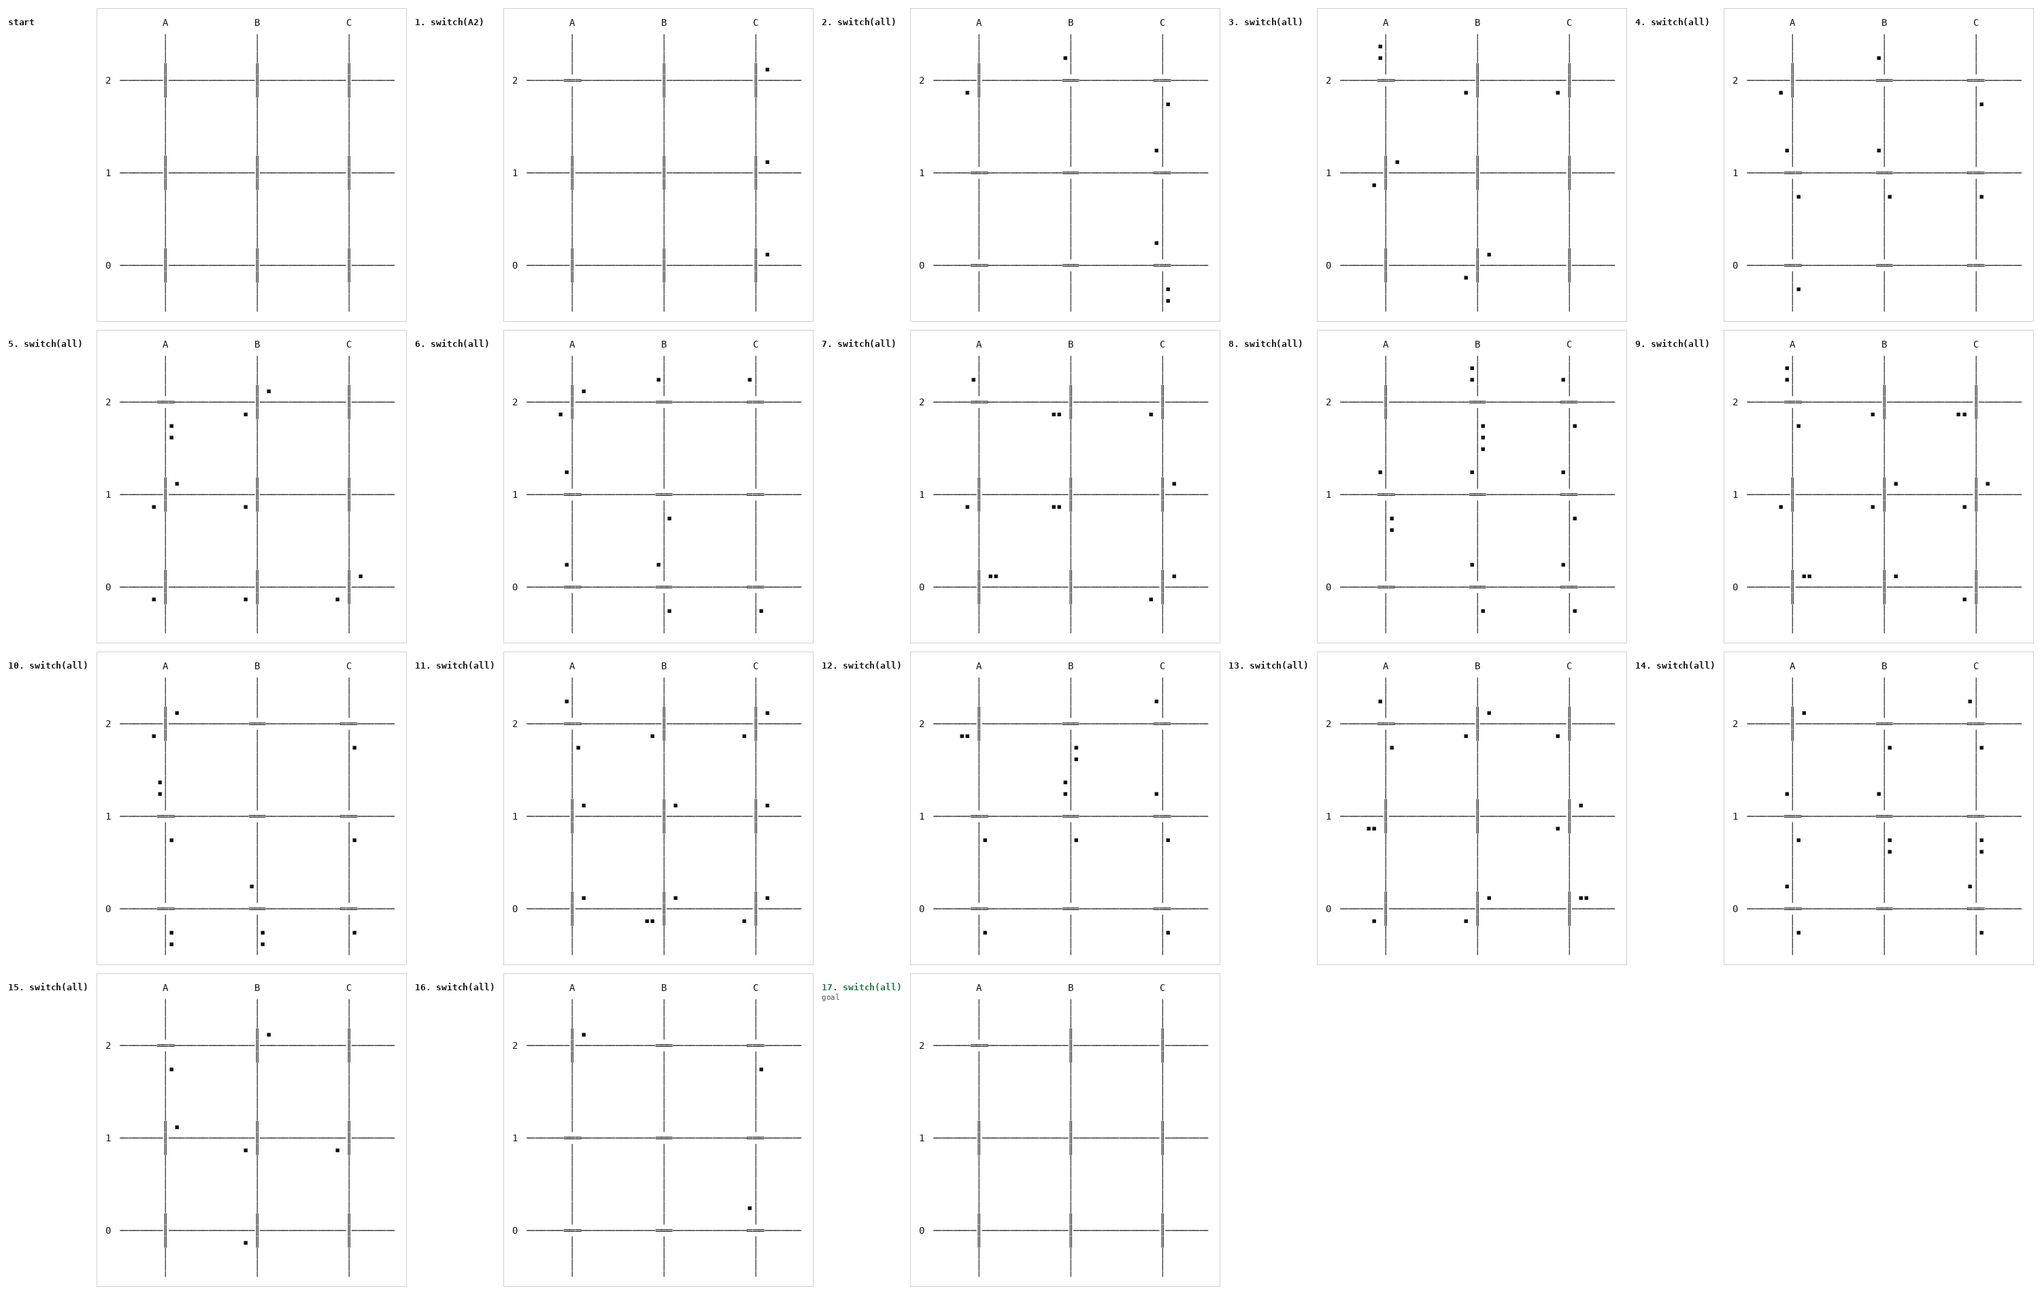
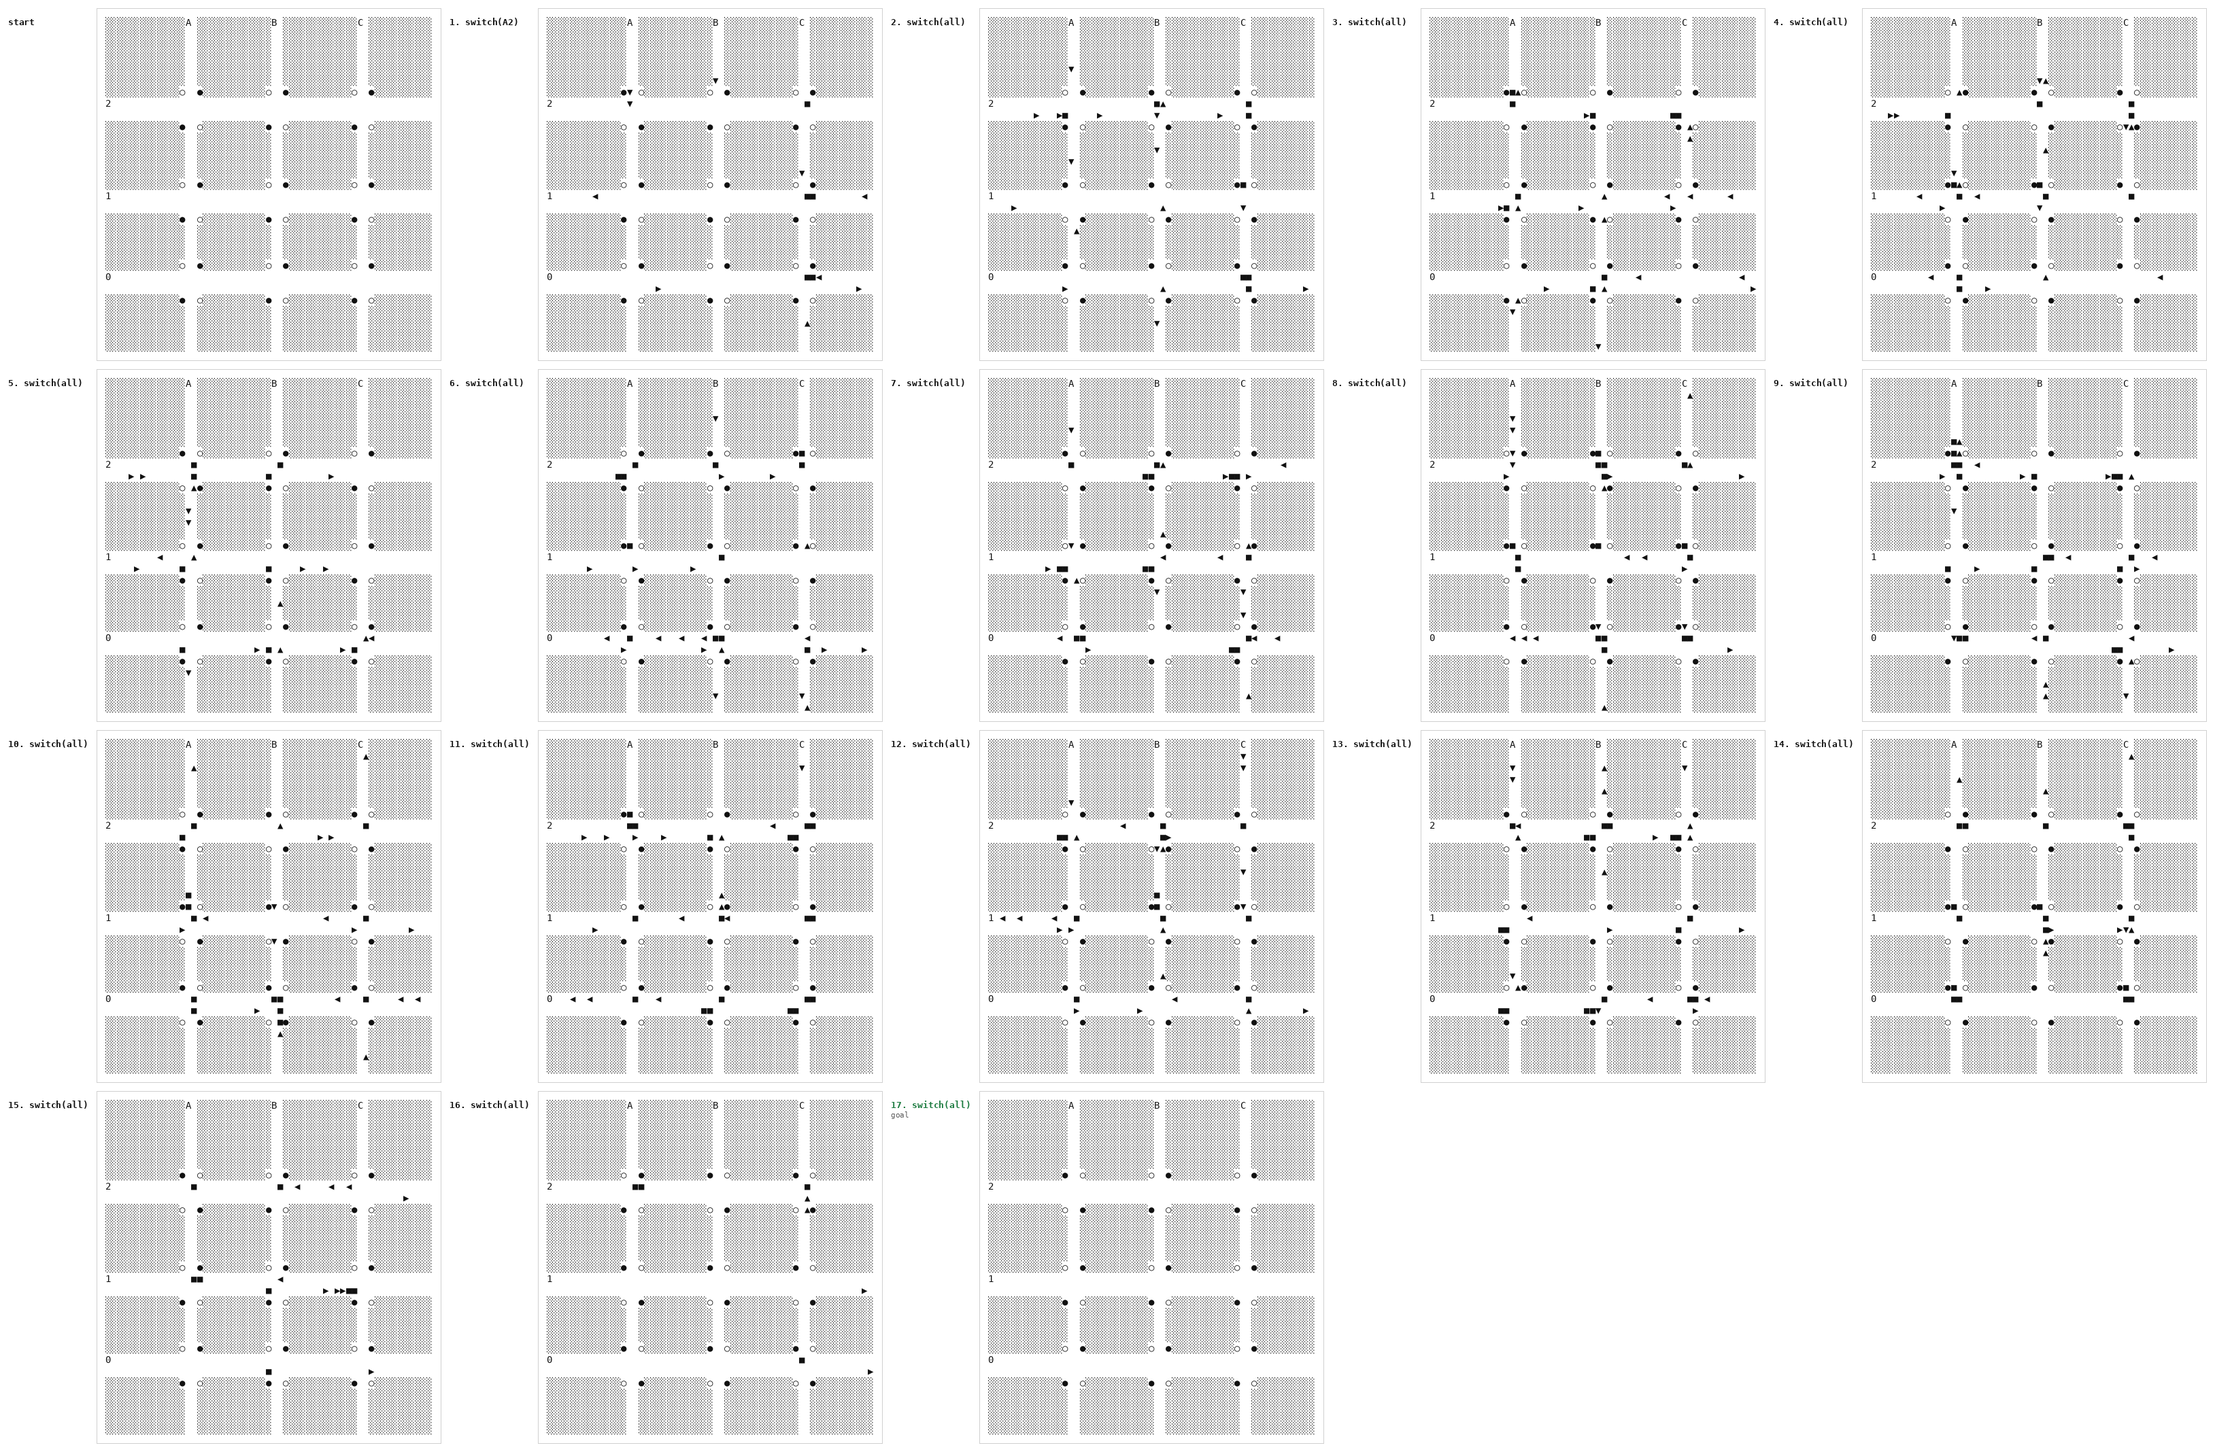
Draw the traffic grid as a city with its lights and every vehicle
Blocks of buildings stand between the streets, a lane each way; each
approach has a light on its corner, green or red; and every vehicle is
drawn where it is, an arrow along its heading while it moves and a square
once halted, so the frames show platoons and queues. The state records
each vehicle's position for the picture, outside its identity.

The example comments that still quoted a status line now name only what
the picture shows.

Claude-Session: https://claude.ai/code/session_01CbUM6vVu3Q3wBSzyXUJpxb

Changed region(s): [[0.031, 0.0, 1.0, 1.0]]

diff --git a/planiverse/environments/operational/traffic/environment.py b/planiverse/environments/operational/traffic/environment.py
@@ -113,10 +113,14 @@ def approaches(junction):
     return tuple(f"{start}{junction}" for start in (north, east, south, west))
 
 
-#: A picture's grid: columns between junctions, rows between them, the stubs' length in
-#: each, and how many halted vehicles one mark of a queue stands for.
-PICTURE_BLOCK, PICTURE_STUB = (16, 8), (8, 4)
-PER_MARK = 2
+#: A picture's scale: columns and rows to a metre of the network, which is `NET` metres square
+#: with its junctions `BLOCK` apart from `STUB` in. A street is two characters wide, a lane
+#: each way, vehicles keeping to the right.
+PICTURE_SCALE, NET = (0.1, 0.05), 2 * STUB + (GRID - 1) * BLOCK
+#: How a picture draws the city: a block of buildings, a light green and red, a vehicle moving
+#: by its heading (north, east, south, west) and one halted.
+BUILDINGS, GREEN, RED = "░", "○", "●"
+MOVING, HALTED = "▲▶▼◀", "■"
 
 
 def _stub_junction(side, k):
@@ -191,11 +195,13 @@ class TrafficState:
                 "to come": self.pending, "vehicle-seconds": self.travel, "target": self.target}
 
     def __init__(self, decisions, time, arrived, running, pending, travel, greens, target=0,
-                 horizon=0, total=0, halted=0, depth=0, queues=()):
+                 horizon=0, total=0, halted=0, depth=0, queues=(), vehicles=()):
         self.decisions = tuple(decisions)
         #: For the picture only: the vehicles halted on each junction's approaches from the
-        #: north, east, south and west, in the order of `JUNCTIONS`.
+        #: north, east, south and west, in the order of `JUNCTIONS`; and every vehicle on the
+        #: road as (x, y, heading in degrees, halted).
         self.queues = tuple(tuple(q) for q in queues)
+        self.vehicles = tuple(vehicles)
         self.time, self.arrived, self.running, self.pending = time, arrived, running, pending
         self.travel, self.greens, self.halted = travel, tuple(greens), halted
         self.target, self.horizon, self.total, self.depth = target, horizon, total, depth
@@ -218,41 +224,49 @@ class TrafficState:
         return self.depth < other.depth
 
     def __str__(self):
-        """The grid as streets, each junction showing the axis its green is on (═ east-west,
-        ║ north-south), each approach's queue as a row of ▪ back from the stop line (one for
-        every `PER_MARK` halted vehicles, as many as the block has room for)."""
-        (bx, by), (sx, sy) = PICTURE_BLOCK, PICTURE_STUB
-        left, top = 2 + sx, 1 + sy
-        width, height = left + bx * (GRID - 1) + sx + 1, top + by * (GRID - 1) + sy + 1
-        canvas = Canvas(width, height)
+        """The city from above: blocks of buildings ░ with streets between them, a lane each
+        way; at each junction a light for each approach on its corner, ○ green and ● red;
+        and every vehicle where it is, an arrow along its heading (▲ ▶ ▼ ◀) while it moves
+        and ■ once halted. The columns are lettered and the rows numbered as the junctions
+        are named."""
+        cx, cy = PICTURE_SCALE
+        width, height = round(NET * cx) + 3, round(NET * cy) + 2
+        canvas = Canvas(width, height, BUILDINGS)
 
-        def at(junction):
-            k, row = "ABC".index(junction[0]), int(junction[1])
-            return left + bx * k, top + by * (GRID - 1 - row)
+        def col(x):
+            return 2 + round(x * cx)
 
-        for k in range(GRID):
-            x, y = at(f"{'ABC'[k]}0")[0], at(f"A{k}")[1]
-            canvas.hline(2, width - 1, y)
-            canvas.vline(x, 1, height - 1)
-            canvas.put(x, 0, "ABC"[k])
-            canvas.put(0, y, str(k))
-        queues = dict(zip(JUNCTIONS, self.queues))
+        def row(y):
+            return 1 + round((NET - y) * cy)
+
+        lines = [STUB + k * BLOCK for k in range(GRID)]
+        for k, at in enumerate(lines):
+            canvas.fill(col(at), 1, col(at) + 1, height - 1, " ")
+            canvas.fill(2, row(at), width - 1, row(at) + 1, " ")
+        for k, at in enumerate(lines):
+            canvas.put(col(at), 0, "ABC"[k])
+            canvas.put(col(at) + 1, 0, " ")
+            canvas.put(0, row(at), str(k))
+            canvas.put(1, row(at), " ")
+            canvas.put(0, row(at) + 1, " ")
+            canvas.put(1, row(at) + 1, " ")
         for junction, green in zip(JUNCTIONS, self.greens):
-            x, y = at(junction)
-            for d in (-1, 0, 1):          # the green axis drawn double through the junction
-                if green == "A":
-                    canvas.put(x, y + d, "║")
-                else:
-                    canvas.put(x + d, y, "═")
-            north, east, south, west = queues.get(junction, (0, 0, 0, 0))
-            room = (by - 2, bx - 3)
-            # vehicles keep to the right: southbound queue on the street's west side, coming
-            # down from the north; westbound on the north side, back to the east; and so on
-            for n, (dx, dy, side) in ((north, (0, -1, (-1, 0))), (south, (0, 1, (1, 0))),
-                                      (east, (1, 0, (0, -1))), (west, (-1, 0, (0, 1)))):
-                marks = min(room[dx != 0], -(-n // PER_MARK))
-                for m in range(2, marks + 2):
-                    canvas.put(x + dx * m + side[0], y + dy * m + side[1], "▪")
+            x, y = col(lines["ABC".index(junction[0])]), row(lines[int(junction[1])])
+            across = RED if green == "A" else GREEN          # phase A is north-south
+            down = GREEN if green == "A" else RED
+            canvas.put(x - 1, y - 1, down)                   # from the north, southbound
+            canvas.put(x + 2, y + 2, down)                   # from the south, northbound
+            canvas.put(x + 2, y - 1, across)                 # from the east, westbound
+            canvas.put(x - 1, y + 2, across)                 # from the west, eastbound
+        for x, y, heading, halted in self.vehicles:
+            way = int(round(heading / 90)) % 4               # SUMO: 0 north, 90 east
+            if way in (1, 3):                                # along a street east or west
+                street = min(lines, key=lambda at: abs(at - y))
+                at = (col(x), row(street) + (1 if way == 1 else 0))
+            else:
+                street = min(lines, key=lambda at: abs(at - x))
+                at = (col(street) + (1 if way == 0 else 0), row(y))
+            canvas.put(*at, HALTED if halted else MOVING[way])
         return str(canvas)
 
     def __repr__(self):
@@ -395,7 +409,10 @@ class TrafficEnv(Environment):
                             target=self.instance["target"], horizon=self.instance["horizon"],
                             total=self.instance["vehicles"], halted=halted, depth=depth,
                             queues=[[ls.edge.getLastStepHaltingNumber(edge) for edge in approaches(j)]
-                                    for j in JUNCTIONS])
+                                    for j in JUNCTIONS],
+                            vehicles=[(*(round(c, 1) for c in ls.vehicle.getPosition(v)),
+                                       round(ls.vehicle.getAngle(v)), ls.vehicle.getSpeed(v) < 0.1)
+                                      for v in ls.vehicle.getIDList()])
 
     def close(self):
         if self.__loaded__ is not None:

diff --git a/tests/test_operational_four.py b/tests/test_operational_four.py
@@ -170,11 +170,14 @@ def test_a_traffic_state_draws_the_grid_its_greens_and_its_queues(traffic):
     assert approaches("A0") == ("A1A0", "B0A0", "bottom0A0", "left0A0")
     state, _ = traffic.reset()
     after = traffic.__advance__(state, TrafficAction("all"))
-    assert_a_picture(traffic, state, after, ["║"])
-    assert "═" not in str(state).split("\n\n")[0] and "║" not in str(after).split("\n\n")[0]
+    assert_a_picture(traffic, state, after, ["░", "○", "●"])
+    lights = lambda drawn: (drawn.count("○"), drawn.count("●"))  # noqa: E731
+    assert sum(lights(str(state))) == 4 * 9, "a light for every approach"
+    assert lights(str(after)) == lights(str(state))[::-1], "switching every junction swaps them"
     queued = traffic.simulate([HOLD] * 6)[-1]
     assert len(queued.queues) == 9 and sum(map(sum, queued.queues)) > 0
-    assert "▪" in str(queued)
+    assert len(queued.vehicles) == queued.running and "■" in str(queued)
+    assert any(arrow in str(queued) for arrow in "▲▶▼◀"), "vehicles on the move"
 
 
 # ------------------------------------------------------------------------------ airspace

diff --git a/docs/environments/traffic.md b/docs/environments/traffic.md
@@ -135,18 +135,21 @@ early switch of its own, at junction `A2` alone.
 
 ![BFWS solving traffic instance 0](../renders/traffic.gif)
 
-Each frame is the state's picture: the three-by-three grid as streets, columns `A` to `C` and rows
-`0` to `2` as SUMO names them, with the stubs running off to the edge of the map. Each junction
-shows the axis its green is on as a double line through it, and each approach's queue is a row of
-marks back from the stop line on the side of the street its traffic keeps to, one mark for every two
-halted vehicles, as many as the block has room for.
+Each frame is the state's picture: the city from above, blocks of buildings with the streets of
+the three-by-three grid between them, columns `A` to `C` and rows `0` to `2` as SUMO names them,
+and the stubs running off to the edge of the map. A street has a lane each way, its traffic keeping
+to the right. At each junction every approach has a light on its corner, green or red, and every
+vehicle on the road is drawn where it is: an arrow along its heading while it moves, a square once
+it has halted, so the frames show platoons moving through the greens and queues building at the
+reds.
 
 | Mark | Meaning |
 |---|---|
-| `═══` | a junction green east-west |
-| `║` (three rows tall) | a junction green north-south |
-| `▪` | two vehicles halted on the approach |
-| `─` `│` | a street |
+| `░` | a block of buildings |
+| `○` | a green light, on the corner of the approach it lets through |
+| `●` | a red light |
+| `▲` `▶` `▼` `◀` | a vehicle moving north, east, south or west |
+| `■` | a halted vehicle |
 
 The same plan is also a [sheet](../renders/traffic.png), every state on one figure, each
 captioned with the action that produced it and the goal marked where the plan ends. Both were
@@ -160,7 +163,7 @@ from planiverse.planners.width import BFWS
 env = TrafficEnv()
 env.set_index(0)
 state, info = env.reset()          # info: morning, vehicles, horizon, target, generated
-print(state)                       # the street grid; last line t=0s · 0 of 200 arrived, 0 on the road, ...
+print(state)                       # the city, its lights and its vehicles
 
 result = BFWS(width=1, progress=measures.traffic).solve(env)
 trace = env.simulate(result.plan)

diff --git a/docs/environments/flood-transport.md b/docs/environments/flood-transport.md
@@ -245,7 +245,7 @@ from planiverse.planners.width import BFWS
 env = make("flood_transport")
 env.set_index(0)                   # eight zones, thirty years, the design storm every year
 state, info = env.reset()          # info["target"], info["reference"], info["do_nothing"]: 162.8e6, 159.6e6, 246.5e6 kroner
-print(state)                       # the zone map; last line year 0/30 · 0.0 of 162.8 M DKK: ...
+print(state)                       # the zone map
 
 result = BFWS(width=1, progress=measures.flood_transport).solve(env)
 trace = env.simulate(result.plan)

diff --git a/docs/environments/water-distribution.md b/docs/environments/water-distribution.md
@@ -184,7 +184,7 @@ from planiverse.planners.width import BFWS
 env = WaterNetworkEnv()
 env.set_index(0)                   # Net1, contaminant at junction 23
 state, info = env.reset()          # info: network, source, pipes, candidates, contaminated, service, ...
-print(state)                       # the schematic; last line 0 pipes closed · contaminated delivered 13.6% · ...
+print(state)                       # the schematic
 
 result = BFWS(width=1, progress=measures.water_network).solve(env)
 trace = env.simulate(result.plan)

diff --git a/docs/environments/power-grid.md b/docs/environments/power-grid.md
@@ -171,7 +171,7 @@ from planiverse.planners.width import BFWS
 env = make("power_grid")
 env.set_index(0)                   # chronic 0, line 11 trips
 state, info = env.reset()          # info: grid, chronic, offset, tripped_line, max_rho, overloaded, actions, ...
-print(state)                       # the one-line diagram; last line step 1 · worst 101% on line 9 · ...
+print(state)                       # the one-line diagram
 
 result = BFWS(width=1, progress=measures.power_grid).solve(env)
 trace = env.simulate(result.plan)

diff --git a/docs/environments/crop-management.md b/docs/environments/crop-management.md
@@ -193,7 +193,7 @@ from planiverse.planners.width import BFWS
 env = make("crop_management")
 env.set_index(0)                   # the 1976 season
 state, info = env.reset()          # info: year, sow, rainfed, reference, target, budget_cm, decision_days, ...
-print(state)                       # the field; last line day 10 · decision 1/10 · biomass 60 kg/ha · ...
+print(state)                       # the field
 
 result = BFWS(width=1, progress=measures.crop_management).solve(env)
 trace = env.simulate(result.plan)

diff --git a/docs/environments/micropolis.md b/docs/environments/micropolis.md
@@ -181,7 +181,7 @@ from planiverse.planners.width import BFWS
 env = MicropolisEnv()
 env.set_index(0)
 state, info = env.reset()          # info: city, years, target, sites, generated
-print(state)                       # the engine's map of the layout; last line year 0   population 1 of 26   funds 16685
+print(state)                       # the engine's map of the layout
 
 result = BFWS(width=1, progress=measures.micropolis).solve(env)
 trace = env.simulate(result.plan)

diff --git a/docs/environments/epidemic.md b/docs/environments/epidemic.md
@@ -151,7 +151,7 @@ from planiverse.planners.width import BFWS
 env = EpidemicEnv()
 env.set_index(0)
 state, info = env.reset()          # info: outbreak, weeks, capacity, budget, target, generated
-print(state)                       # the town and the ward; last line week 0 of 12 · nothing decided · ...
+print(state)                       # the town and the ward
 
 result = BFWS(width=1, progress=measures.epidemic).solve(env)
 trace = env.simulate(result.plan)

diff --git a/docs/environments/microgrid.md b/docs/environments/microgrid.md
@@ -177,7 +177,7 @@ from planiverse.planners.width import BFWS
 env = MicrogridEnv()
 env.set_index(0)
 state, info = env.reset()          # info: index, microgrid, start, horizon, target, reserve, ...
-print(state)                       # the one-line diagram; last line hour 0/36 (day 255, 06:00) · ...
+print(state)                       # the one-line diagram
 
 result = BFWS(width=1, progress=measures.microgrid).solve(env)
 trace = env.simulate(result.plan)

diff --git a/docs/environments/reservoir.md b/docs/environments/reservoir.md
@@ -161,7 +161,7 @@ from planiverse.planners.width import BFWS
 env = ReservoirEnv()
 env.set_index(0)
 state, info = env.reset()          # info: year, target, reserves, generated
-print(state)                       # the two tanks; last line month 0 of 12 · nothing released yet · ...
+print(state)                       # the two tanks
 
 result = BFWS(width=1, progress=measures.reservoir).solve(env)
 trace = env.simulate(result.plan)

diff --git a/docs/environments/inventory.md b/docs/environments/inventory.md
@@ -179,7 +179,7 @@ from planiverse.planners.width import BFWS
 env = InventoryEnv()
 env.set_index(0)
 state, info = env.reset()          # info: season, target, allowed, generated
-print(state)                       # the chain; last line period 0/20 · profit 0.00 of 270.76 · ...
+print(state)                       # the chain
 
 result = BFWS(width=1, progress=measures.inventory).solve(env)
 trace = env.simulate(result.plan)
